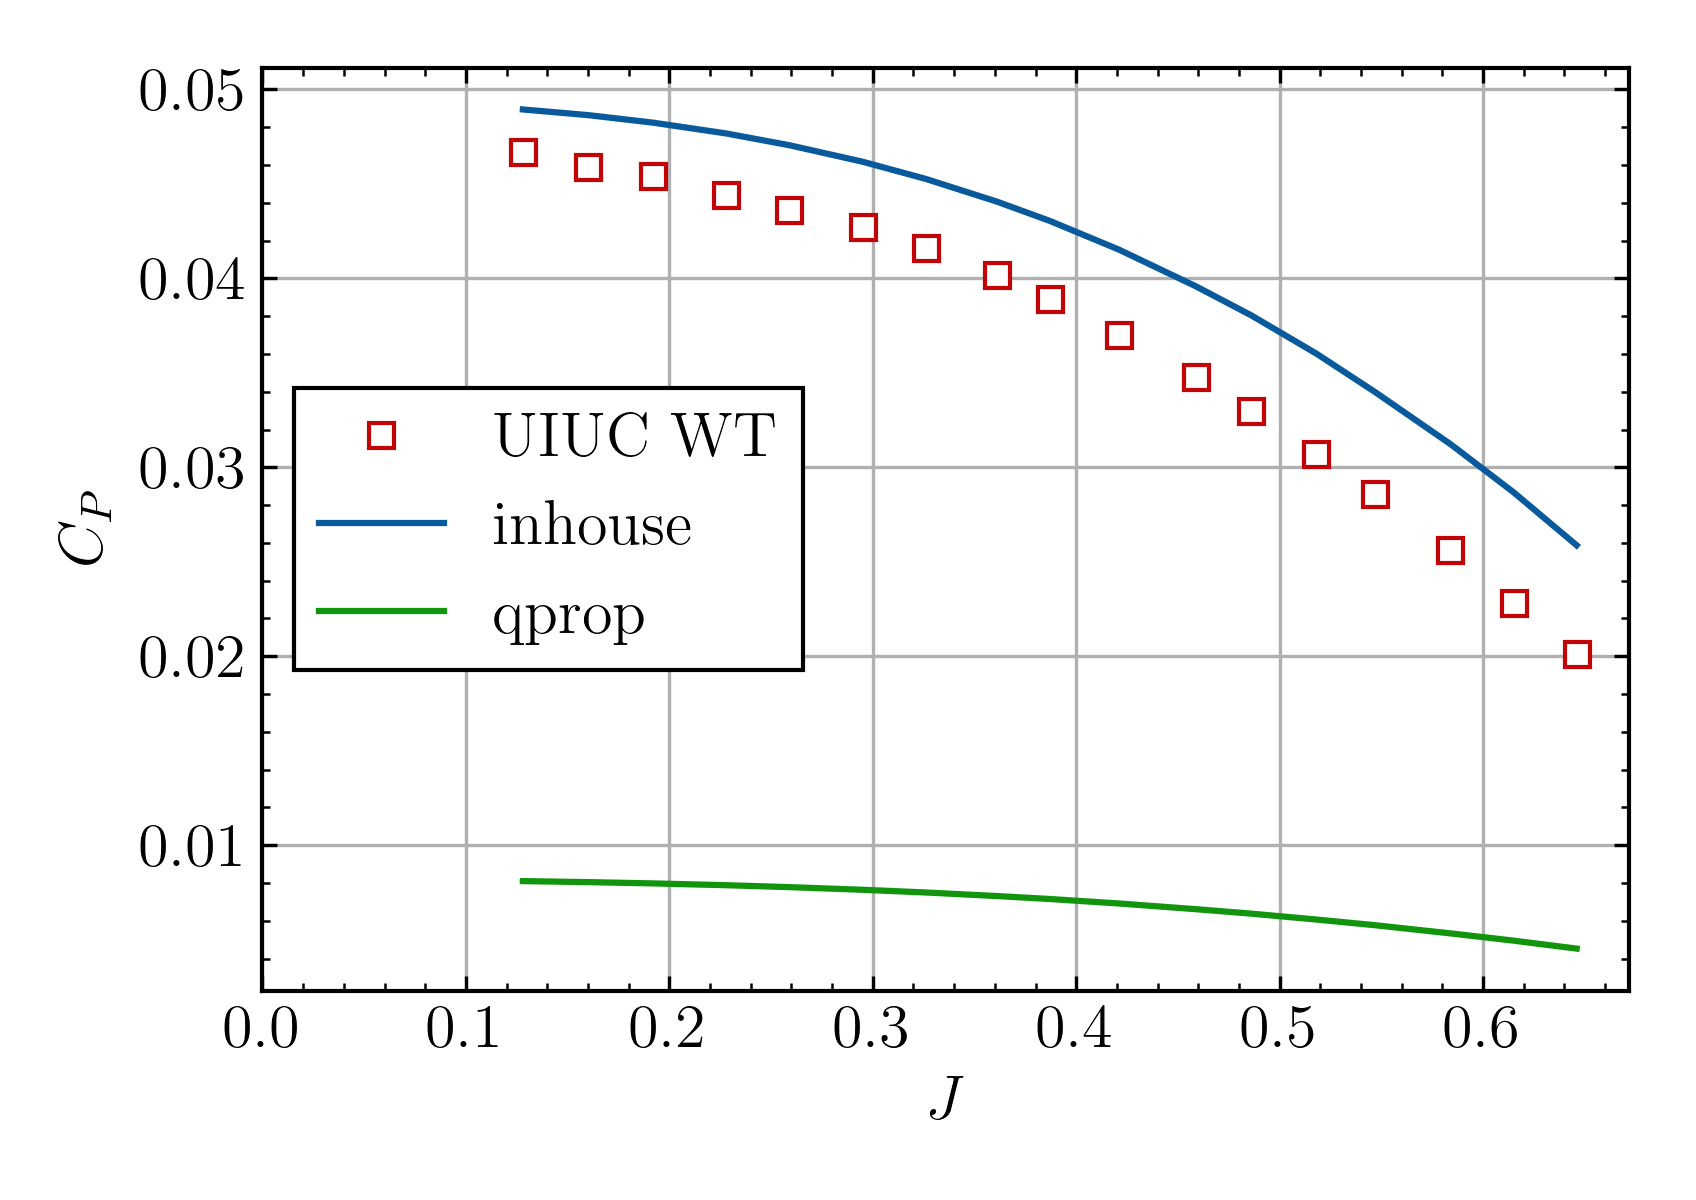
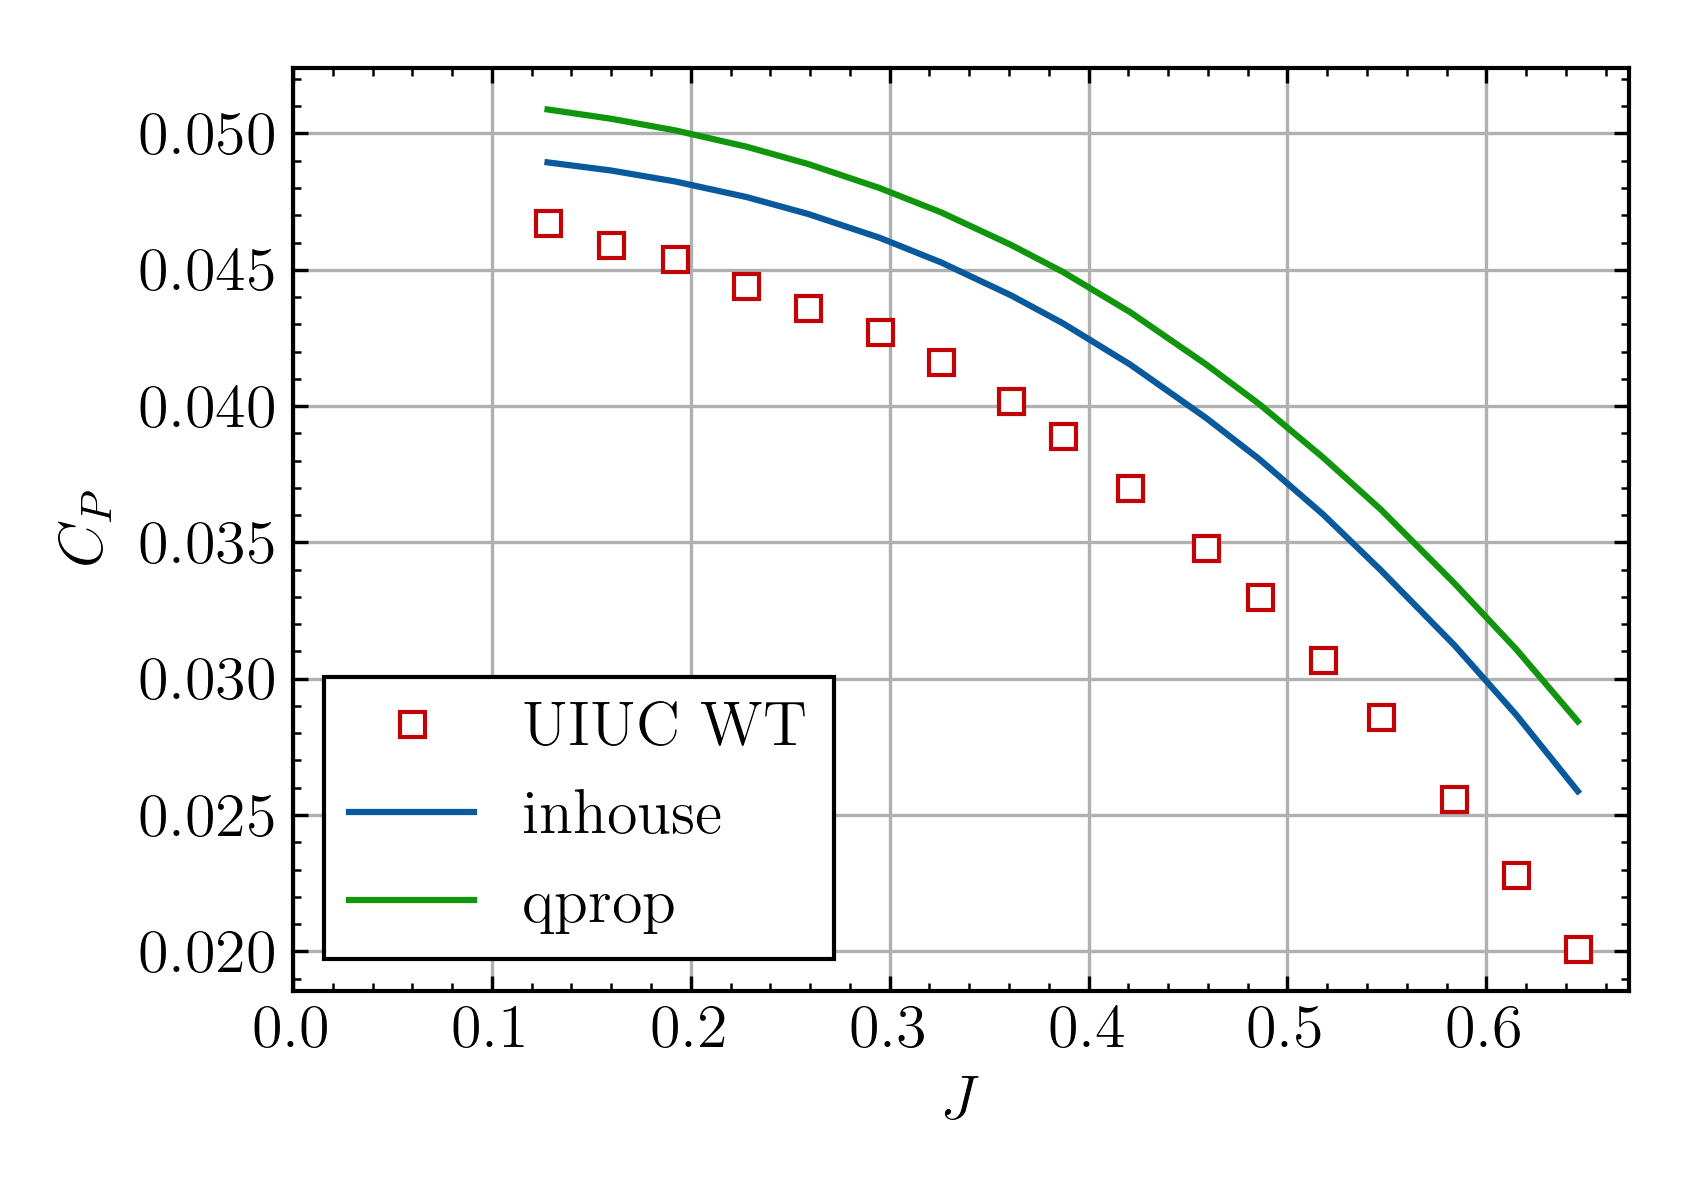
fix validation-qprop Cp calc

diff --git a/ANALYSIS/validation/validation-qprop.py b/ANALYSIS/validation/validation-qprop.py
@@ -5,6 +5,8 @@ import os
 from cycler import cycler
 import colorsys
 import re
+import math
+
 # load uiuc data
 uiuc_data = np.loadtxt('uiuc_apc9by4.7SF_rpm5013.txt', skiprows=2)
 uiuc_J = uiuc_data[:,0]
@@ -76,7 +78,8 @@ for J in uiuc_J:
             # Extract the specific values from the 12th, 13th, and 15th indices
             try:
                 Ct = float(columns[4]) /(rho * rps**2 * (2*R)**4)
-                Cp = float(columns[5]) /(rho * rps**2 * (2*R)**5)
+                Cq = float(columns[5]) /(rho * rps**2 * (2*R)**5)
+                Cp = 2 * math.pi * Cq
                 eta = float(columns[10])
             except ValueError:
                 print("Error: Unable to convert data to float.")
